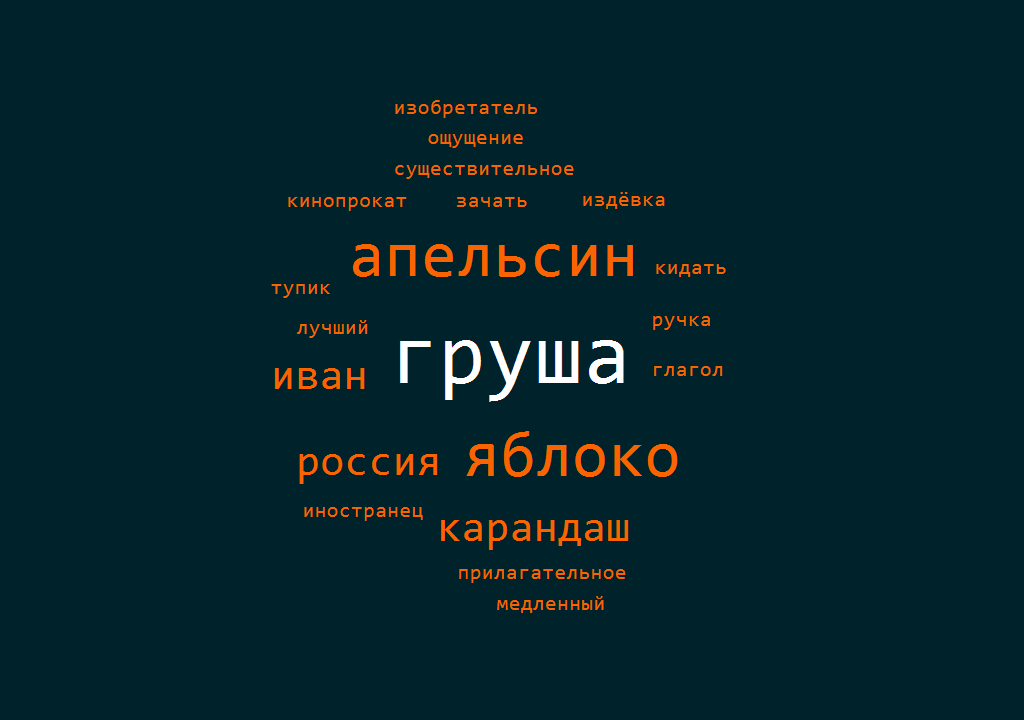
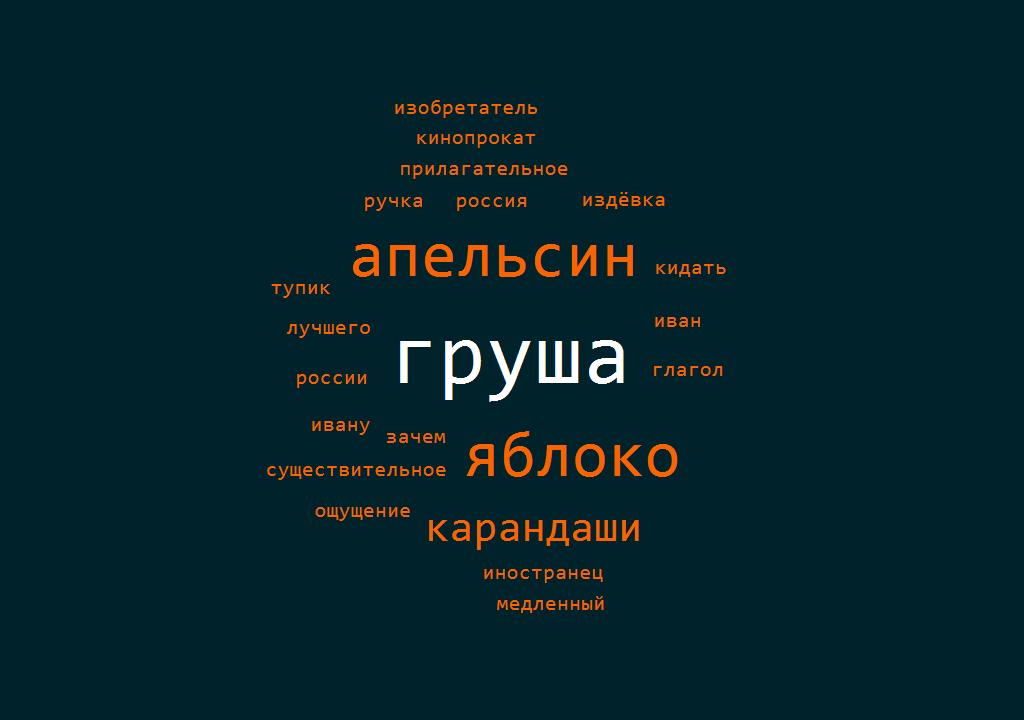
Text2 exception fixed

diff --git a/TagsCloudTests/TagCloudShould.cs b/TagsCloudTests/TagCloudShould.cs
@@ -24,6 +24,8 @@ namespace TagsCloudTests
         {
             serviceProvider = ContainerBuilder.GetNewTagCloudServices(1024, 720);
             tagCloud = serviceProvider.GetService<TagCloud>();
+
+            File.Delete(picPath + extension);
         }
 
         [Test]
@@ -36,6 +38,16 @@ namespace TagsCloudTests
             tagCloud.PrintTagCloud(textPath, picPath, extension);
 
             File.Exists(fullPath).Should().BeTrue();
+        }
+
+        [Test]
+        public void TagCloud_Text2Input()
+        {
+            var fullPath = @"..\..\..\..\text2.txt";
+
+            tagCloud.PrintTagCloud(textPath, picPath, extension);
+
+            File.Exists(picPath + extension).Should().BeTrue();
         }
 
         [Test]

diff --git a/TagsCloud/TextWorkers/NormalFormParser.cs b/TagsCloud/TextWorkers/NormalFormParser.cs
@@ -9,7 +9,15 @@ namespace TagsCloud.TextWorkers
     {
         public IEnumerable<string> Normalize(IEnumerable<MorphInfo> clearMorphs)
         {
-            var normalForms = clearMorphs.Select(x => x.BestTag.Lemma);
+            var normalForms = clearMorphs.Select(x => 
+            {
+                if (x.BestTag.HasLemma == false)
+                {
+                    return x.Text;
+                }
+
+                return x.BestTag.Lemma;
+            });
 
             return normalForms;
         }
